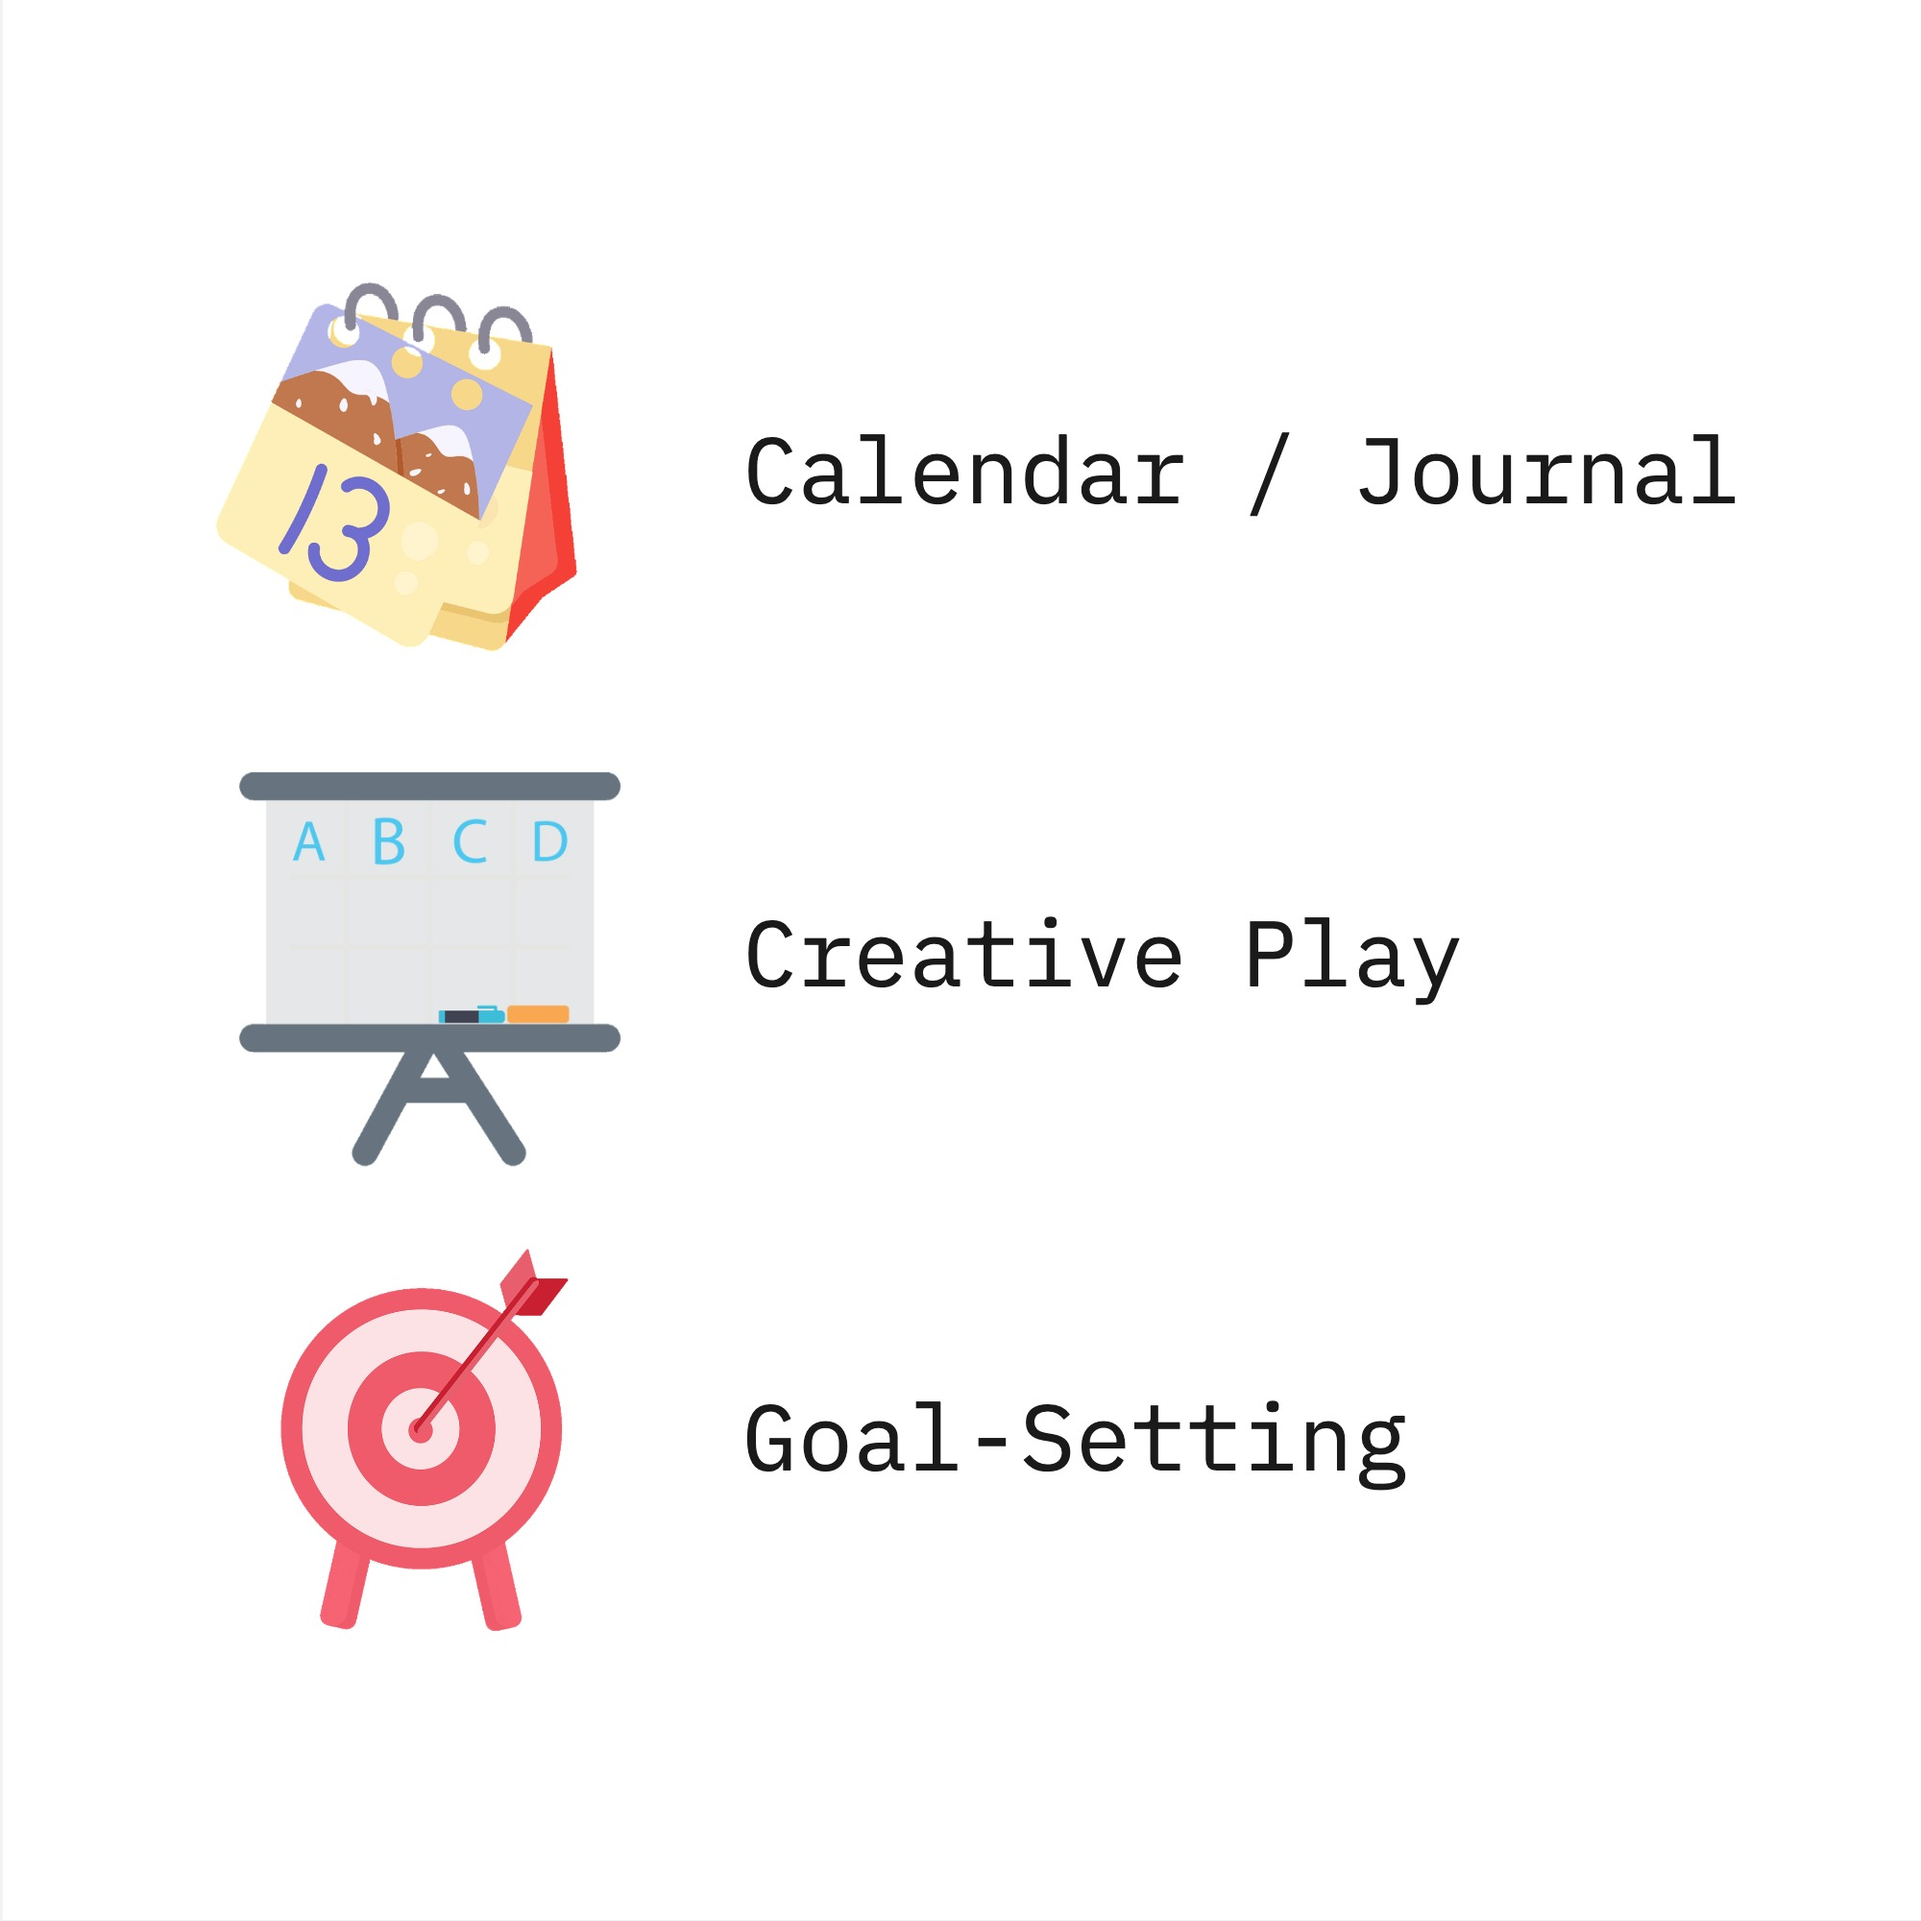
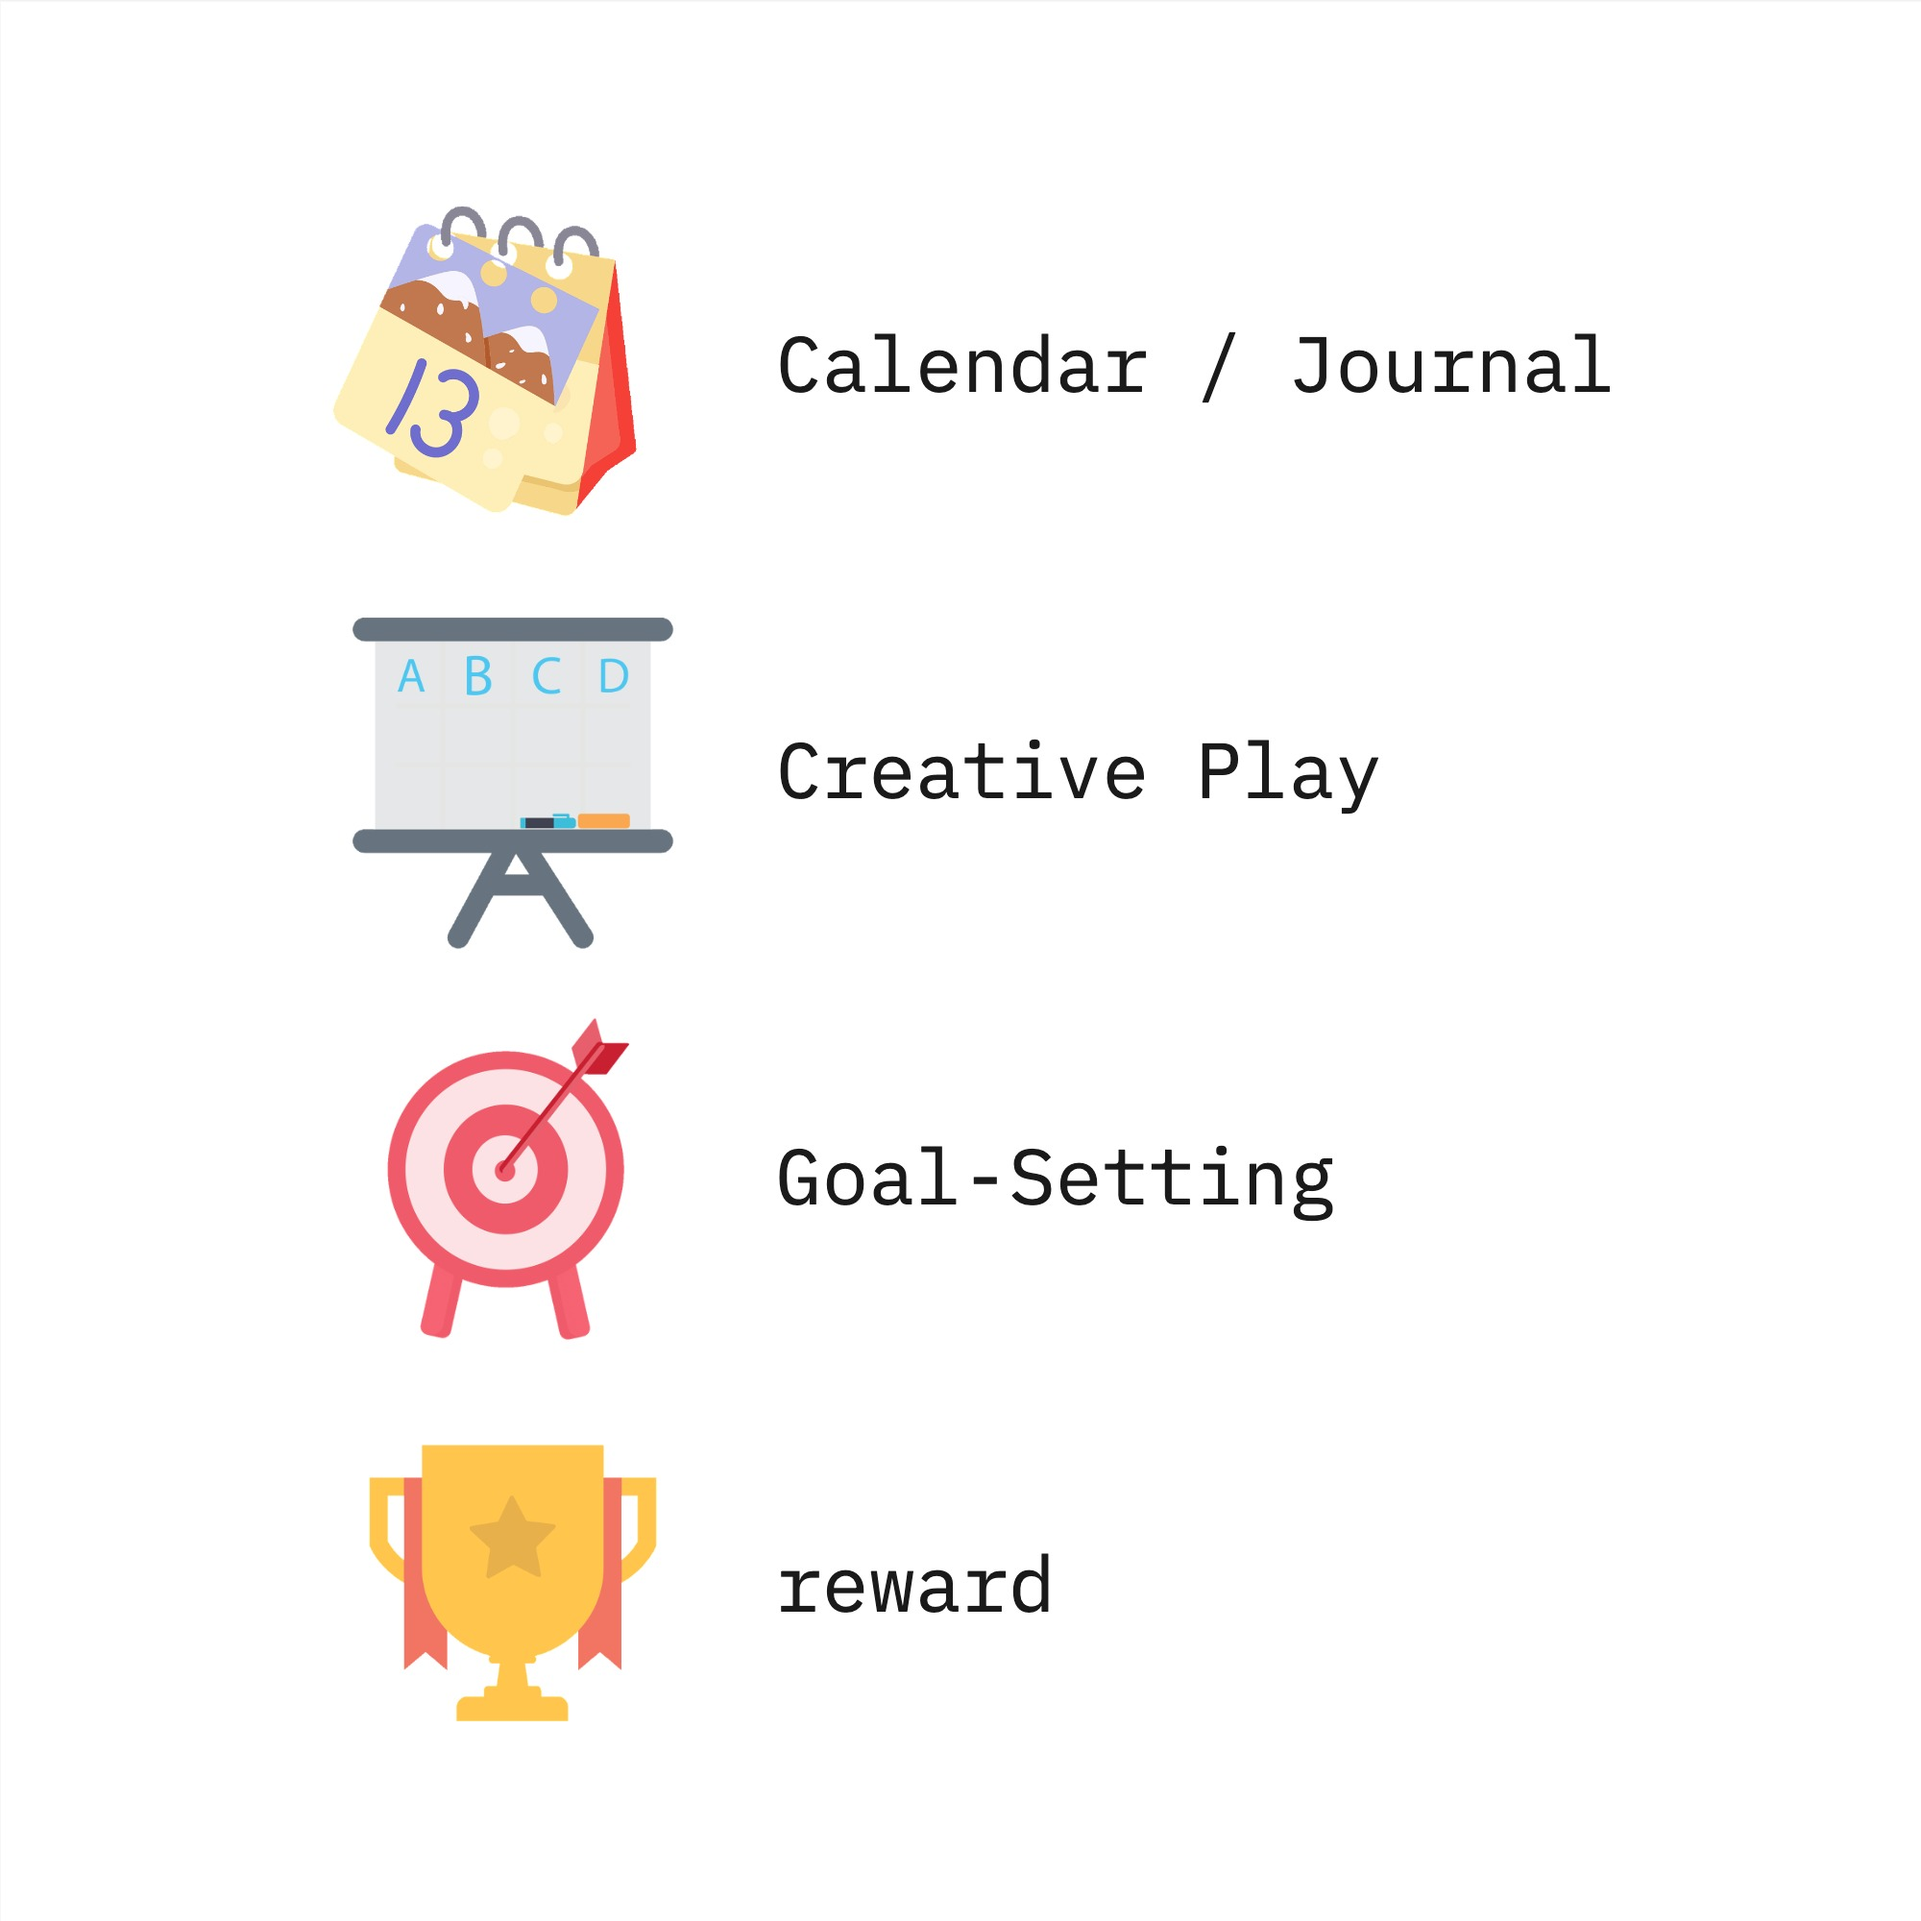
Create reward page

diff --git a/js/nav.js b/js/nav.js
@@ -12,7 +12,8 @@ class NavBar extends HTMLElement {
       { id: 'main-nav', iconSrc: 'assets/monkey.png', text: 'Main Page' },
       { id: 'calendar-journal-nav', iconSrc: 'assets/calendar-nav.png', text: 'Calendar/Journal' },
       { id: 'creative-play-nav', iconSrc: 'assets/white-board-with-letters.png', text: 'Creative Play' },
-      { id: 'goal-setting-nav', iconSrc: 'assets/goal-nav.png', text: 'Goal-Setting' }
+      { id: 'goal-setting-nav', iconSrc: 'assets/goal-nav.png', text: 'Goal-Setting' },
+      { id: 'reward-nav', iconSrc: 'assets/reward.png', text: 'Reward' }
     ]
 
     // Create and append nav items to the nav bar
@@ -42,7 +43,7 @@ class NavBar extends HTMLElement {
         display: flex;
         align-items: center;
         justify-content: center;
-        gap: 8vw;
+        gap: 6vw;
         position: fixed;
         top: 0px;
         left: 0px;
@@ -77,9 +78,9 @@ class NavBar extends HTMLElement {
       }
 
       /* Responsive Styles */
-      @media (max-width: 900px) {
+      @media (max-width: 1100px) {
         .nav-bar {
-          gap: 5vw;
+          gap: 4vw;
           padding: 10px 0;
         }
         .nav-icon {
@@ -92,12 +93,18 @@ class NavBar extends HTMLElement {
         }
       }
 
-      @media (max-width: 680px) {
+      @media (max-width: 800px) {
         .nav-icon {
           display: none;
         }
         .icon-text-container {
-          font-size: 14px;
+          font-size: 16px;
+        }
+      }
+
+      @media (max-width: 650px) {
+        .icon-text-container {
+          font-size: 12px;
         }
       }
     `
@@ -131,14 +138,16 @@ document.addEventListener('DOMContentLoaded', function () {
   const calendarJournalPage = document.getElementById('calendar-journal-page')
   const creativePlayPage = document.getElementById('creative-play-page')
   const goalSettingPage = document.getElementById('goal-setting-page')
+  const rewardPage = document.getElementById('reward-page')
 
   const calendarJournalPageNav = document.getElementById('calendar-journal')
   const creativePlayPageNav = document.getElementById('creative-play')
   const goalSettingPageNav = document.getElementById('goal-setting')
+  const rewardPageNav = document.getElementById('reward')
 
   // Function to show one page and hide others
   function showPage (pageToShow) {
-    [mainPage, calendarJournalPage, creativePlayPage, goalSettingPage].forEach(page => {
+    [mainPage, calendarJournalPage, creativePlayPage, goalSettingPage,rewardPage].forEach(page => {
       if (page === pageToShow) {
         page.classList.remove('hidden')
       } else {
@@ -160,5 +169,10 @@ document.addEventListener('DOMContentLoaded', function () {
   // Add click event listener to goal setting page navigation button
   goalSettingPageNav.addEventListener('click', function () {
     showPage(goalSettingPage)
+  })
+
+  // Add click event listener to reward page navigation button
+  rewardPageNav.addEventListener('click', function () {
+    showPage(rewardPage)
   })
 })

diff --git a/js/sound.js b/js/sound.js
@@ -2,6 +2,7 @@
 const calendarJournal = document.getElementById('calendar-journal')
 const creativePlay = document.getElementById('creative-play')
 const goalSetting = document.getElementById('goal-setting')
+const reward = document.getElementById('reward')
 const sunMoon = document.getElementById('sun-moon')
 const questionMark = document.getElementById('question-mark')
 
@@ -12,7 +13,7 @@ function playAudio (audioPath) {
 }
 
 // Add event listeners to the elements
-[calendarJournal, creativePlay, goalSetting].forEach(element => {
+[calendarJournal, creativePlay, goalSetting, reward].forEach(element => {
   element.addEventListener('mouseenter', function () {
     playAudio('assets/click.mp3')
   })

diff --git a/index.html b/index.html
@@ -32,6 +32,7 @@
     <div id="calendar-journal"></div> <!-- When clicked, navigate users to the Calendar/Journal page -->
     <div id="creative-play"></div> <!-- When clicked, nevigate users to the Creative Play page-->
     <div id="goal-setting"></div> <!-- When clicked, nevigate users to the Goal-Setting page -->
+    <div id="reward"></div> <!-- When clicked, nevigate users to the Reward page -->
   </div>
   <!-- End of the Main Page-->
 
@@ -226,5 +227,10 @@
     </div>
   </div>
   <!-- End of the Goal-Setting Page -->
+  <!-- Reward Page -->
+  <div id="reward-page" class="page hidden">
+    <nav-bar></nav-bar>
+  </div>
+  <!-- End of the Reward Page -->
 </body>
 </html>

diff --git a/css/style.css b/css/style.css
@@ -276,6 +276,29 @@ body {
   transform: rotate(8deg) scale(0.9);
 }
 
+/* Reward icon styling */
+#reward {
+  position: absolute;
+  bottom: 3vh;
+  left: 30vw;
+  width: 13vw;
+  height: 13vw;
+  background: url("../assets/reward.png");
+  background-size: cover;
+  transform: rotate(-2deg);
+  z-index: 3;
+}
+
+#reward:hover {
+  background: url("../assets/reward2.png");
+  background-size: cover;
+  transform: rotate(-2deg);
+}
+
+#reward:active {
+  transform: rotate(-2deg) scale(0.9);
+}
+
 /*
 ========================================================================================
 ===============================  Calendar/Journal Page  ================================
